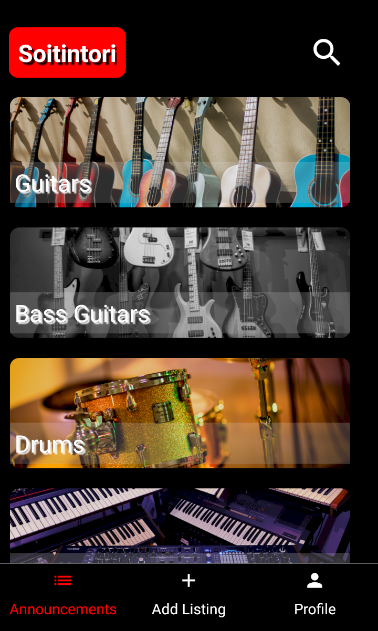
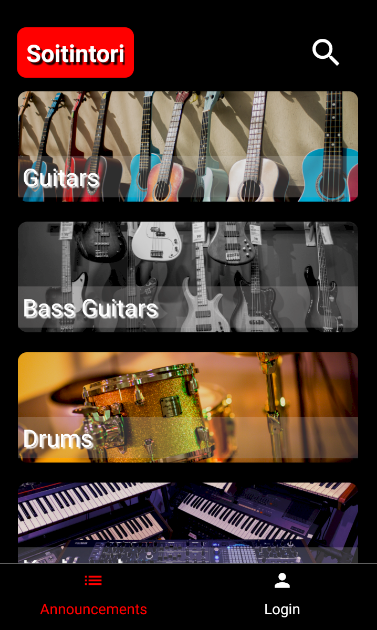
first page fix

diff --git a/styles/Styles.js b/styles/Styles.js
@@ -66,6 +66,11 @@ const styles = StyleSheet.create({
     backgroundColor: 'rgb(0,0,0)',
     justifyContent: 'top',
   },
+  contentContainer: {
+    backgroundColor: 'rgb(0,0,0)',
+    justifyContent: 'top',
+    alignItems: 'center',
+  },
   pageTitleContainer: {
     flexDirection: 'row',
     justifyContent: 'space-between',
@@ -75,7 +80,7 @@ const styles = StyleSheet.create({
     backgroundColor: 'rgb(255,0,0)',
     padding: 10,
     borderRadius: 10,
-    marginLeft: 10,
+    marginLeft: 20,
     alignSelf: 'flex-start',
   },
   pageSubTitleView: {

diff --git a/views/Categories.js b/views/Categories.js
@@ -21,7 +21,9 @@ export const Categories = ({navigation}) => {
           </TouchableOpacity>
         </View>
       </View>
-      <CategoryList navigation={navigation} />
+      <View style={styles.contentContainer}>
+        <CategoryList navigation={navigation} />
+      </View>
     </SafeAreaView>
   );
 };
